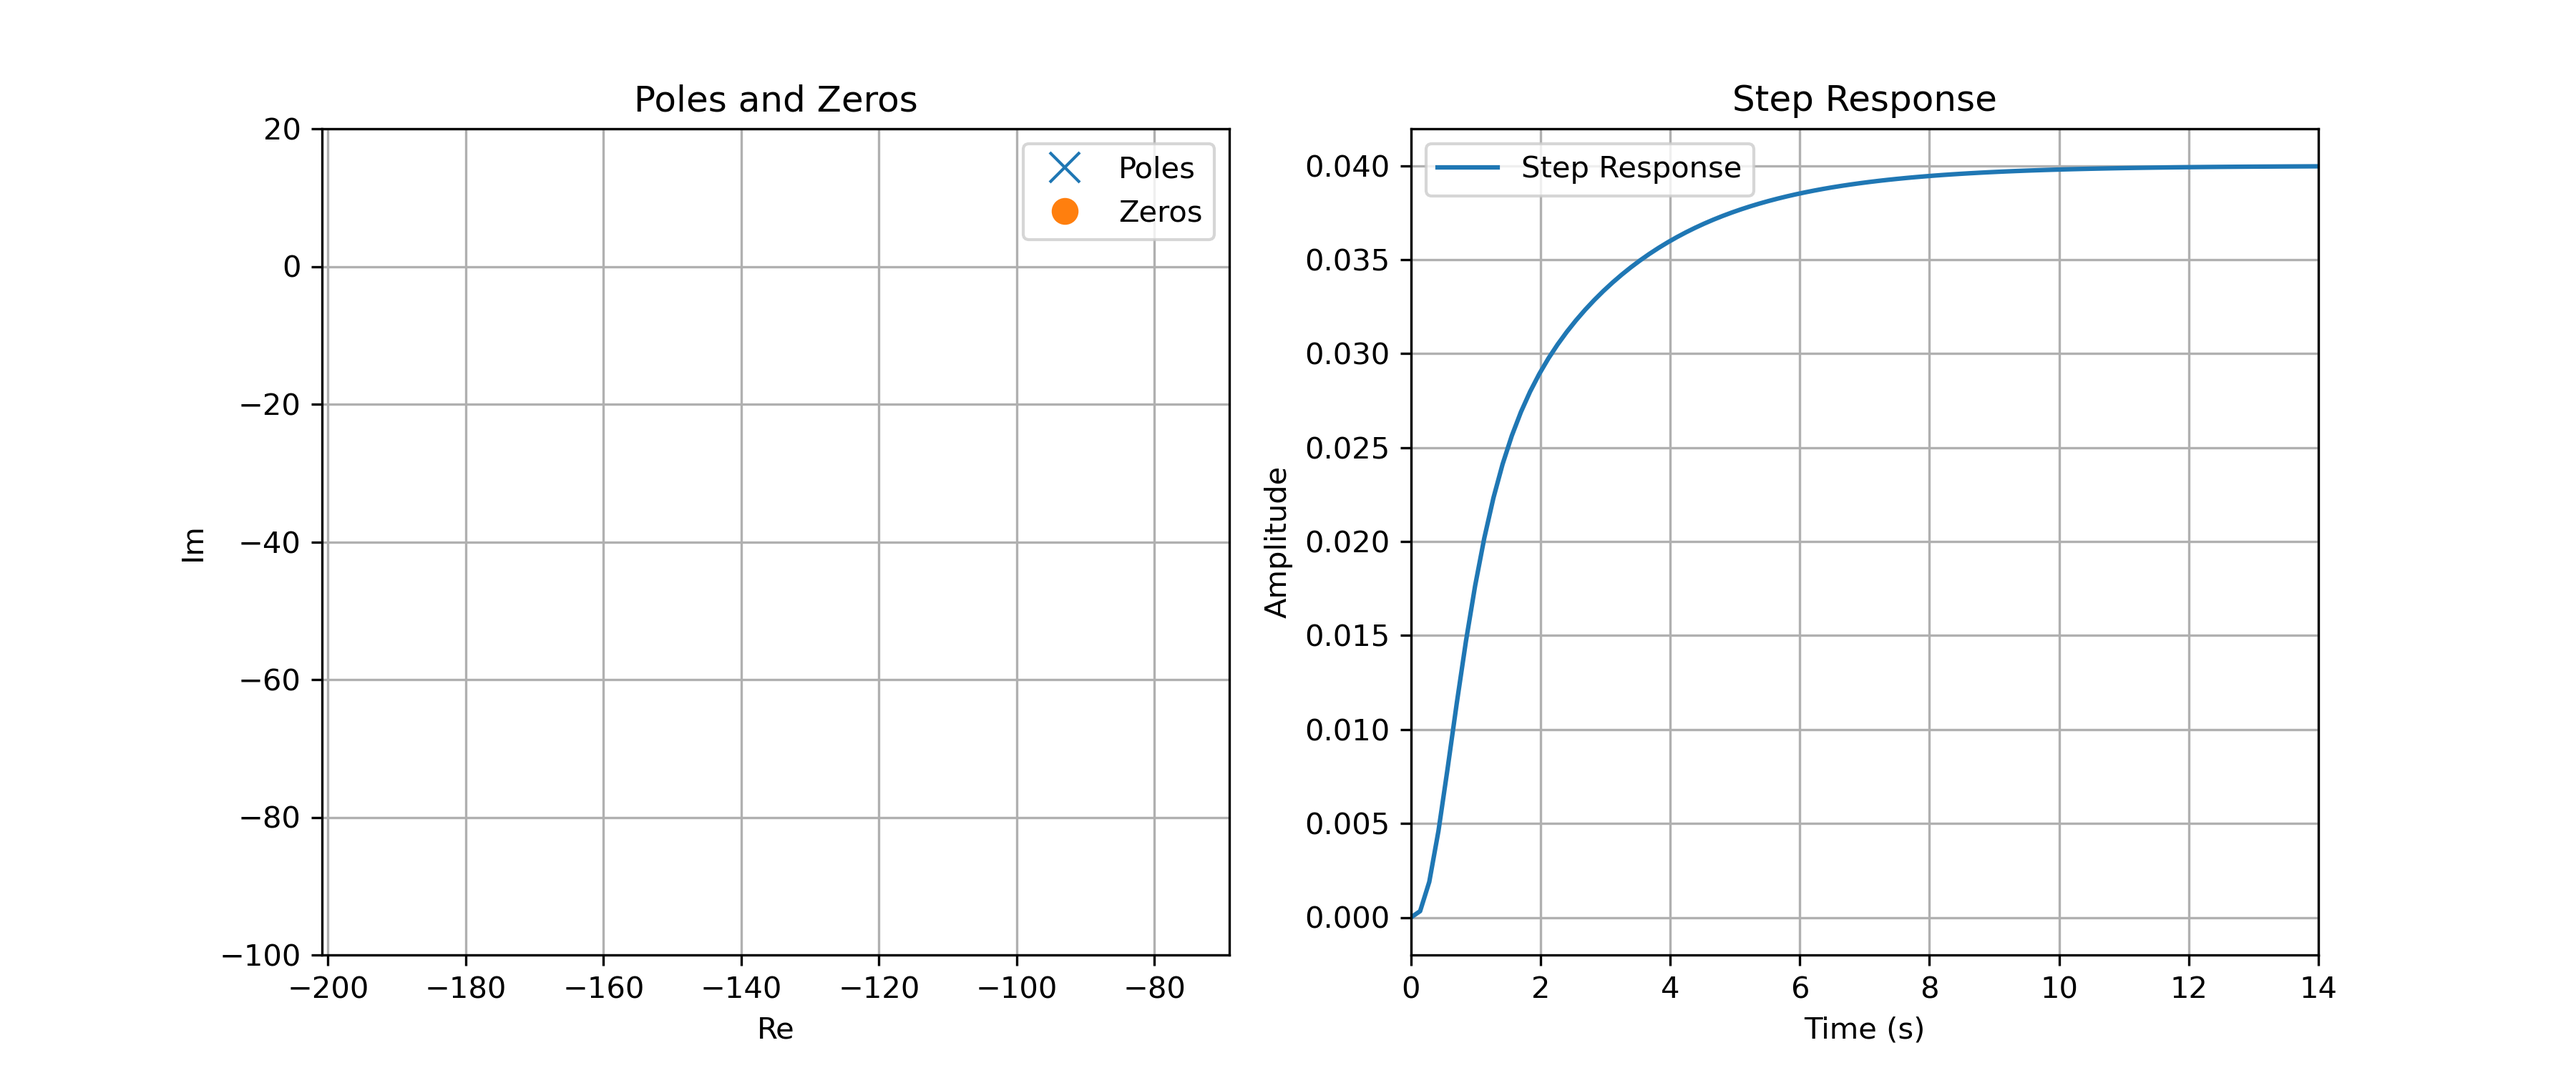
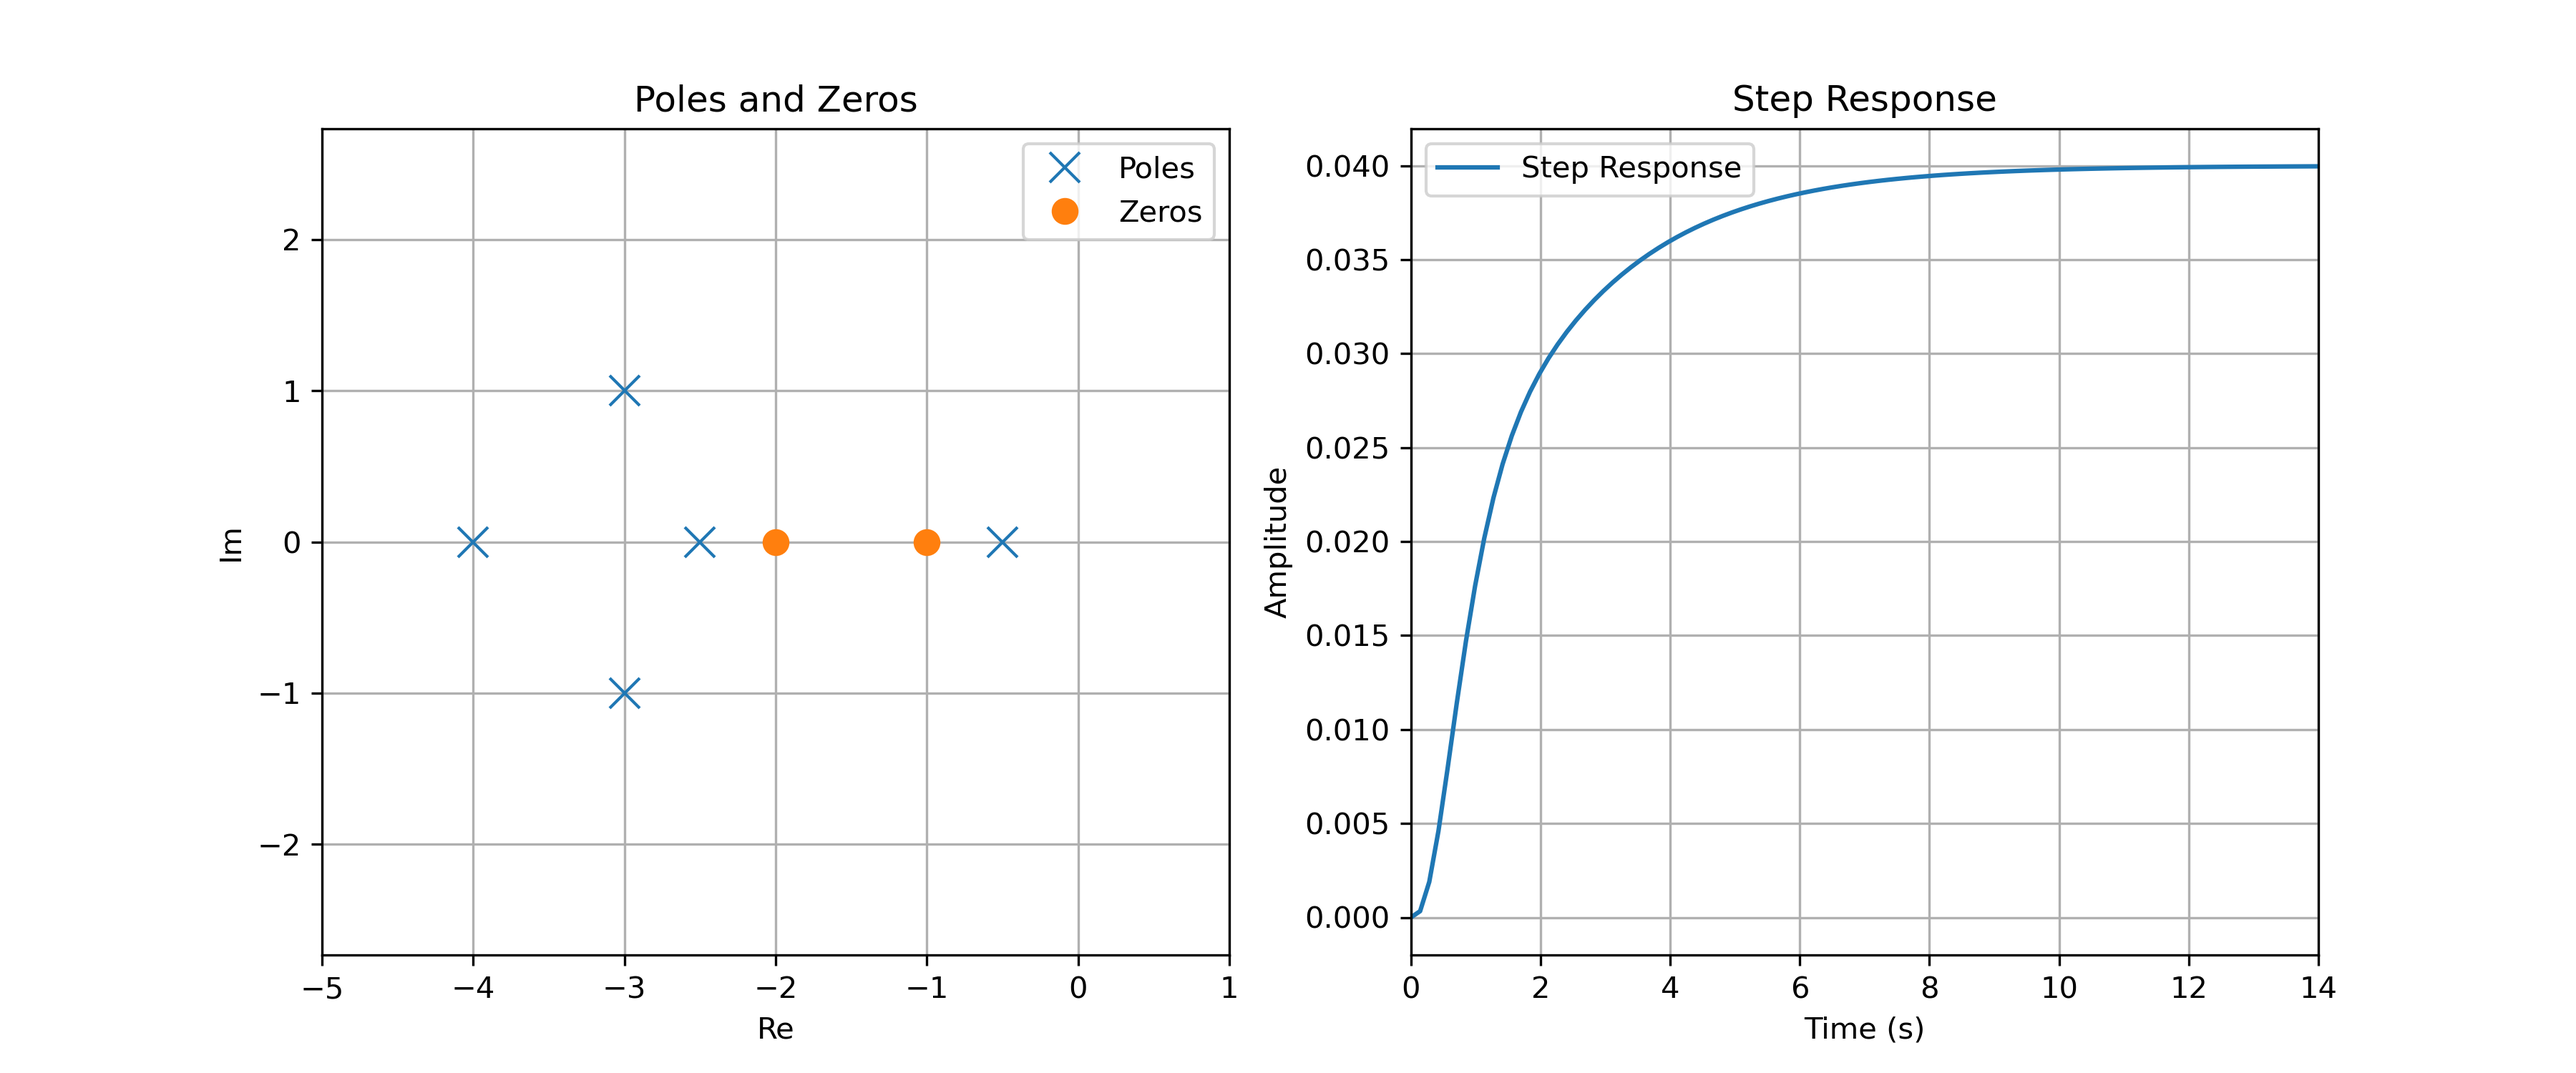
change figure

diff --git a/content/course/02_closed_loop/02_stability/src/fig1.py b/content/course/02_closed_loop/02_stability/src/fig1.py
@@ -26,14 +26,12 @@ for index, system in enumerate([system1, system2]):
     axes[0].plot(system.poles.real, system.poles.imag, 'x', label="Poles", markersize=10)
     axes[0].plot(system.zeros.real, system.zeros.imag, 'o', label="Zeros", markersize=8)
     axes[0].set_title("Poles and Zeros")
-    axes[0].set_xlim([-5, 1])
     axes[0].set_xlabel("Re")
     axes[0].set_ylabel("Im")
     axes[0].grid(True)
     axes[0].axis("equal")
+    axes[0].set_xlim([-5, 1])
     axes[0].legend()
-    axes[0].set_ylim([-100, 20])
-    axes[0].set_xlim([-270, 0])
 
     axes[1].plot(t, y, label="Step Response")
     axes[1].set_title("Step Response")
